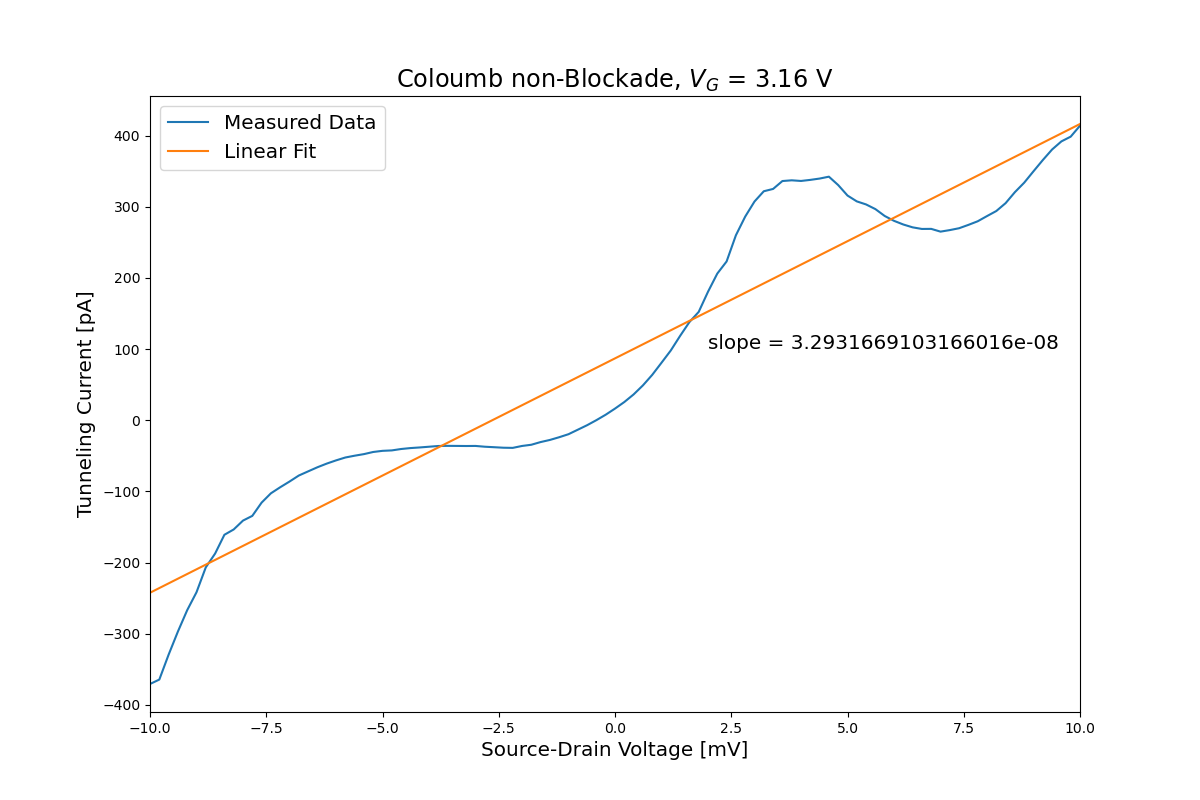
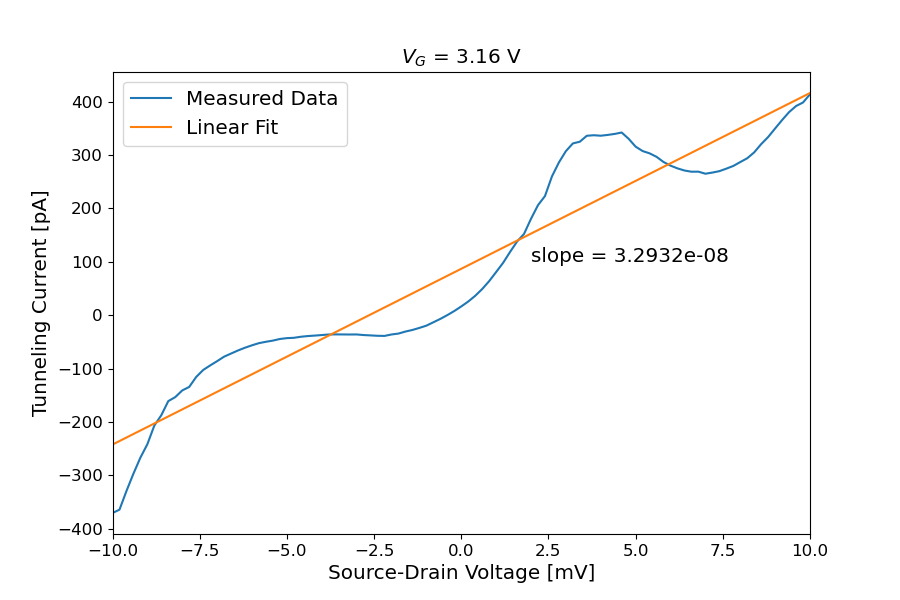
Finished all plotting and made all plots more fancy

diff --git a/CB/Code/ColoumbBlockade.py b/CB/Code/ColoumbBlockade.py
@@ -33,7 +33,7 @@ data2.close()
 sIndex1 = np.argmin(np.abs(np.array(voltage1) - 0.0075))
 Fit1Param = np.polyfit(voltage1[:sIndex1], current1[:sIndex1], 1)
 Fit1 = np.poly1d(Fit1Param)
-print("R1 = " + str(10**-6/Fit1Param[0]) + " MegaOhm")
+print("R1 = " + str(round(10**-6/Fit1Param[0], 2)) + " MegaOhm")
 
 xFit1 = np.linspace(voltage1[0], voltage1[-1], 50)
 yFit1 = Fit1(xFit1)
@@ -41,20 +41,21 @@ yFit1 = Fit1(xFit1)
 
 Fit2Param = np.polyfit(voltage2, current2, 1)
 Fit2 = np.poly1d(Fit2Param)
-print("R2 = " + str(10**-6/Fit2Param[0]) + " MegaOhm")
+print("R2 = " + str(round(10**-6/Fit2Param[0], 2)) + " MegaOhm")
 
 xFit2 = np.linspace(voltage2[0], voltage2[-1], 50)
 yFit2 = Fit2(xFit2)
 
 #Plotting Blockade
 
-plt.figure(figsize = (12,8))
+plt.figure(figsize = (9,6))
 
-plt.title("Coloumb Blockade, $V_G$ = 3.08 V", fontsize = "xx-large")
+plt.title("$V_G$ = 3.08 V", fontsize = "x-large")
 plt.xlabel("Source-Drain Voltage [mV]", fontsize = "x-large")
 plt.ylabel("Tunneling Current [pA]", fontsize = "x-large")
+plt.tick_params('both', labelsize="large")
 
-plt.text(-2.5, -100, "slope = " + str(Fit1Param[0]), fontsize = "x-large")
+plt.text(-1.5, -100, "slope = " + str(round(Fit1Param[0], 12)), fontsize = "x-large")
 
 plt.xlim(voltage1[0] * 10**3, voltage1[-1] * 10**3)
 plt.ylim(current1[-1] * 10**12, current1[0] * 10**12)
@@ -68,13 +69,14 @@ plt.savefig('../Fig/ColoumbBlockade_Block.png')
 
 #Plotting non-Blockade
 
-plt.figure(figsize = (12,8))
+plt.figure(figsize = (9,6))
 
-plt.title("Coloumb non-Blockade, $V_G$ = 3.16 V ", fontsize = "xx-large")
+plt.title("$V_G$ = 3.16 V ", fontsize = "x-large")
 plt.xlabel("Source-Drain Voltage [mV]", fontsize = "x-large")
 plt.ylabel("Tunneling Current [pA]", fontsize = "x-large")
+plt.tick_params('both', labelsize="large")
 
-plt.text(2, 100, "slope = " + str(Fit2Param[0]), fontsize = "x-large")
+plt.text(2, 100, "slope = " + str(round(Fit2Param[0], 12)), fontsize = "x-large")
 
 plt.xlim(voltage2[0] * 10**3, voltage2[-1] * 10**3)
 

diff --git a/CB/Code/ColoumbOscil.py b/CB/Code/ColoumbOscil.py
@@ -32,11 +32,12 @@ data2.close()
 
 #Plotting Full Oscillation scan
 
-plt.figure(figsize = (12,8))
+plt.figure(figsize = (9,6))
 
-plt.title("Coloumb Oscillations", fontsize = "xx-large")
+#plt.title("Coloumb Oscillations", fontsize = "xx-large")
 plt.xlabel("Gate Voltage [V]", fontsize = "x-large")
 plt.ylabel("Tunneling Current [pA]", fontsize = "x-large")
+plt.tick_params('both', labelsize="large")
 
 plt.text(2.3, 350, "$V_{SD}$ = 0.1 mV", fontsize = "x-large")
 
@@ -48,11 +49,12 @@ plt.savefig('../Fig/ColoumbOscillations_Full.png')
 
 #Plotting Oscillation Zoomin
 
-plt.figure(figsize = (12,8))
+plt.figure(figsize = (9,6))
 
-plt.title("Coloumb Oscillations", fontsize = "xx-large")
+#plt.title("Coloumb Oscillations", fontsize = "xx-large")
 plt.xlabel("Gate Voltage [V]", fontsize = "x-large")
 plt.ylabel("Tunneling Current [pA]", fontsize = "x-large")
+plt.tick_params('both', labelsize="large")
 
 plt.text(3.35, 30, "$V_{SD}$ = 0.05 mV", fontsize = "x-large")
 

diff --git a/CB/Code/ColoumbDiamonds.py b/CB/Code/ColoumbDiamonds.py
@@ -23,15 +23,19 @@ current = A[:,2:]
 
 #Plotting
 
-plt.figure(figsize = (12,8))
+plt.figure(figsize = (9,6))
 
-plt.title("Coloumb Diamonds", fontsize = "xx-large")
+#plt.title("Coloumb Diamonds", fontsize = "xx-large")
 plt.xlabel("Gate Voltage [V]", fontsize = "x-large")
 plt.ylabel("Source-Drain Voltage [mV]", fontsize = "x-large")
+plt.tick_params('both', labelsize="large")
 
-plt.pcolor(voltageG, voltageSD, current)
-plt.show()
-#plt.savefig('../Fig/ColoumbDiamonds.png')
+plt.pcolor(voltageG, [v * 10**3 for v in voltageSD], [i * 10**12 for i in current], cmap='RdBu', shading='auto')
+cb = plt.colorbar()
+cb.set_label("Current [pA]", fontsize = "x-large")
+cb.ax.tick_params('both', labelsize="large")
+#plt.show()
+plt.savefig('../Fig/ColoumbDiamonds.png')
 
 
 
